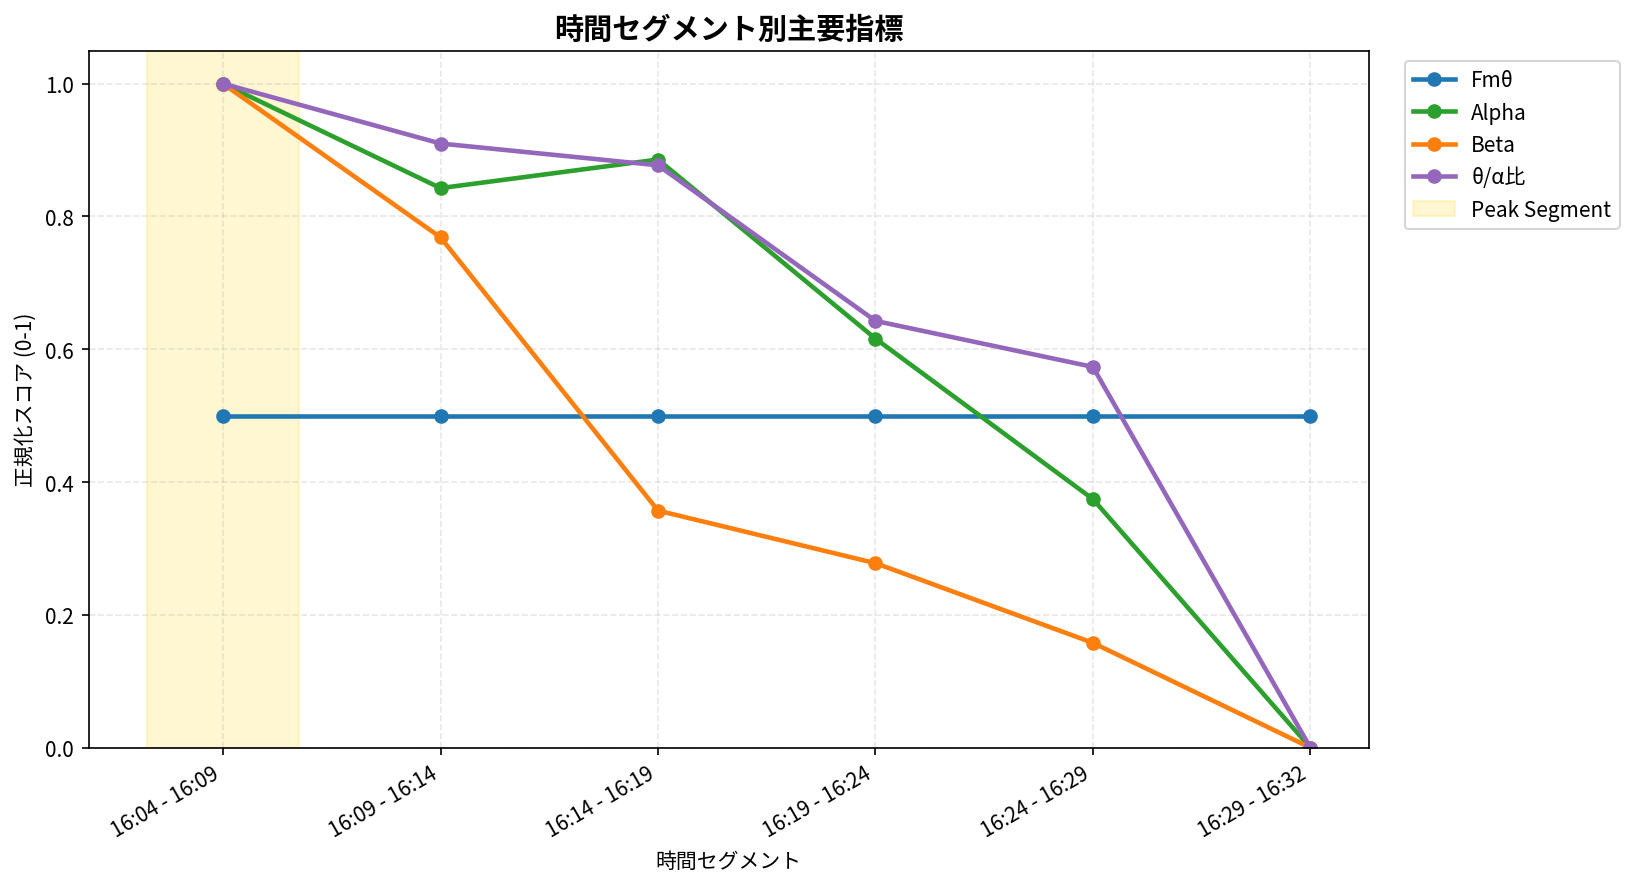
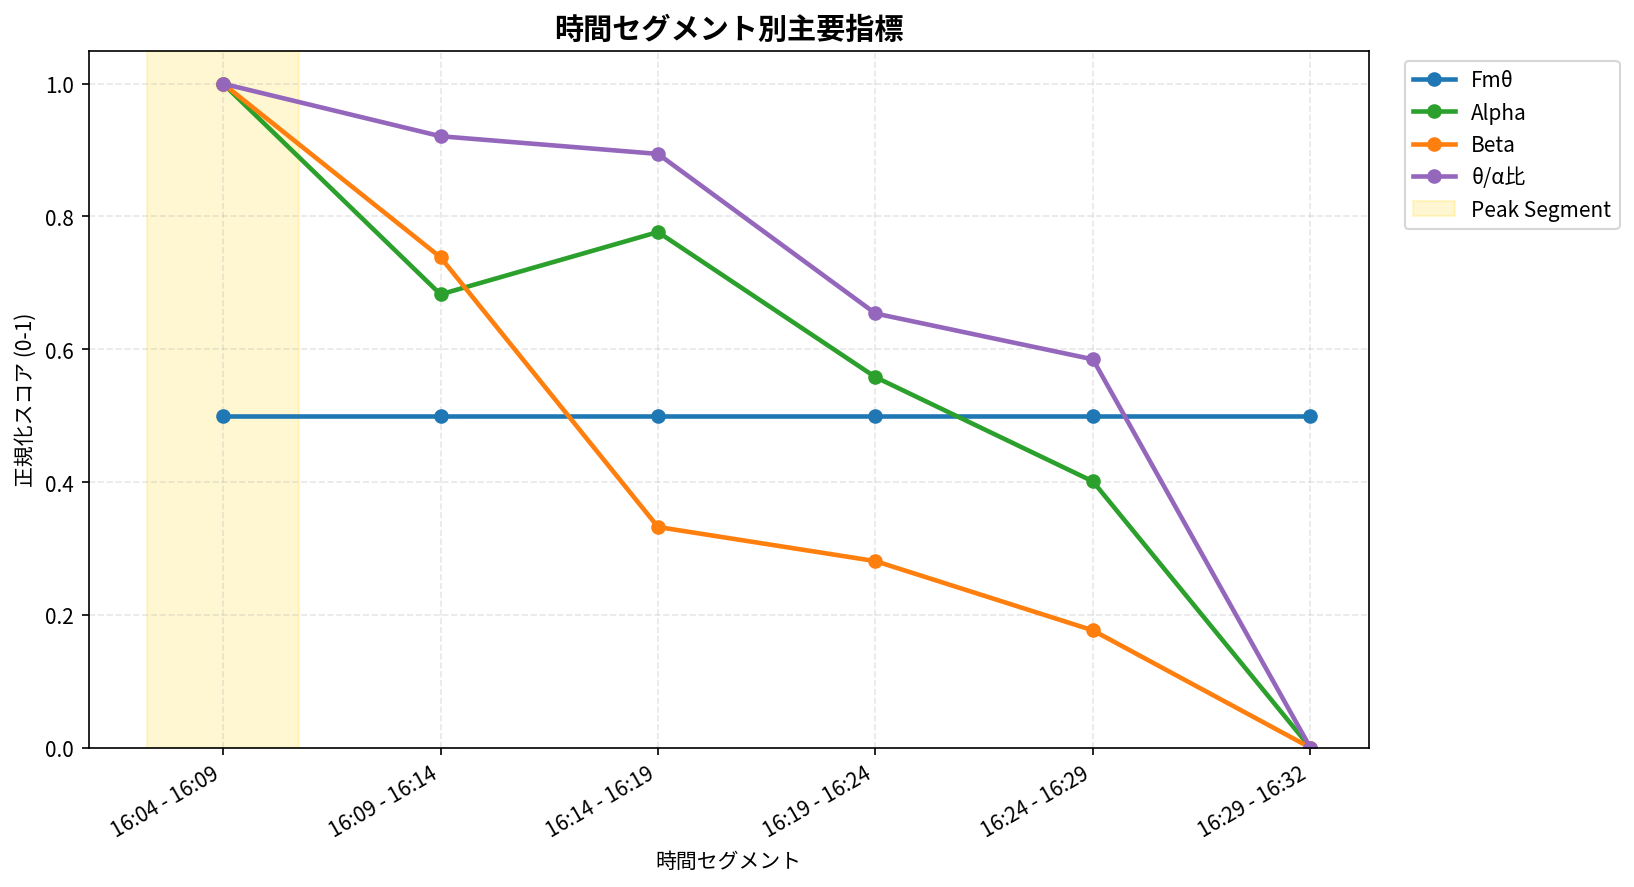
refactor: segment

diff --git a/lib/eeg.py b/lib/eeg.py
@@ -52,68 +52,64 @@ def _min_max_normalize(series: pd.Series) -> pd.Series:
 
 
 def calculate_segment_analysis(
-    df: pd.DataFrame,
+    df_clean: pd.DataFrame,
+    fmtheta_series: pd.Series,
     segment_minutes: int = 5,
-    fmtheta_result: Optional[FrontalThetaResult] = None,
-    raw: Optional['mne.io.BaseRaw'] = None,
+    band_means: Optional[Dict[str, pd.Series]] = None,
 ) -> SegmentAnalysisResult:
     """
     セッションを一定時間のセグメントに分割し、主要指標を算出する。
 
     Parameters
     ----------
-    df : pd.DataFrame
-        Mind Monitor形式のデータフレーム。
+    df_clean : pd.DataFrame
+        前処理済みMind Monitor形式のデータフレーム。
+    fmtheta_series : pd.Series
+        Fmθの時系列データ（indexはタイムスタンプ）。
     segment_minutes : int, default 5
         セグメント長（分単位）。
-    fmtheta_result : FrontalThetaResult, optional
-        既計算のFmθ結果。未指定の場合は内部で算出する。
-    raw : mne.io.BaseRaw, optional
-        Fmθ算出用に再利用するRAWオブジェクト。
+    band_means : dict of pd.Series, optional
+        事前計算されたバンド平均値の辞書 {'Alpha': series, 'Beta': series, 'Theta': series}。
+        未指定の場合は内部で計算する。
 
     Returns
     -------
     SegmentAnalysisResult
         集計表・正規化値・メタデータを含む時間セグメント分析結果。
     """
-    if 'TimeStamp' not in df.columns:
+    if 'TimeStamp' not in df_clean.columns:
         raise ValueError('TimeStamp列が存在しません。')
     if segment_minutes <= 0:
         raise ValueError('segment_minutesは正の整数で指定してください。')
 
-    df_base = df.copy()
-    df_base['TimeStamp'] = pd.to_datetime(df_base['TimeStamp'], errors='coerce')
-    df_base = df_base.dropna(subset=['TimeStamp']).sort_values('TimeStamp')
-    if df_base.empty:
-        raise ValueError('有効なTimeStampを持つデータがありません。')
-
-    df_clean, _ = filter_signal_quality(df_base, require_headband=True, require_all_good=True)
+    df_clean = df_clean.copy()
     df_clean['TimeStamp'] = pd.to_datetime(df_clean['TimeStamp'], errors='coerce')
     df_clean = df_clean.dropna(subset=['TimeStamp']).sort_values('TimeStamp')
     if df_clean.empty:
-        raise ValueError('品質条件を満たすデータがありません。')
+        raise ValueError('有効なTimeStampを持つデータがありません。')
 
-    session_start = df_base['TimeStamp'].iloc[0]
-    session_end = df_base['TimeStamp'].iloc[-1]
+    session_start = df_clean['TimeStamp'].iloc[0]
+    session_end = df_clean['TimeStamp'].iloc[-1]
     freq_str = f'{int(segment_minutes)}T'
     segment_delta = pd.Timedelta(minutes=segment_minutes)
 
-    # Fmθ時系列は既存結果を再利用
-    if fmtheta_result is None:
-        fmtheta_result = calculate_frontal_theta(df_clean, raw=raw)
-    fmtheta_series = fmtheta_result.time_series.sort_index()
+    # Fmθ時系列
+    fmtheta_series = fmtheta_series.sort_index()
 
-    # バンド別の平均値をあらかじめ計算
-    band_series: Dict[str, pd.Series] = {}
-    for band in ('Alpha', 'Beta', 'Theta'):
-        cols = [c for c in df_base.columns if c.startswith(f'{band}_')]
-        if not cols:
-            band_series[band] = pd.Series(dtype=float)
-            continue
-        numeric = df_base[cols].apply(pd.to_numeric, errors='coerce')
-        band_mean = numeric.mean(axis=1)
-        band_mean.index = df_base['TimeStamp']
-        band_series[band] = band_mean.sort_index()
+    # バンド別の平均値（外部から渡されない場合は内部で計算）
+    if band_means is None:
+        band_series: Dict[str, pd.Series] = {}
+        for band in ('Alpha', 'Beta', 'Theta'):
+            cols = [c for c in df_clean.columns if c.startswith(f'{band}_')]
+            if not cols:
+                band_series[band] = pd.Series(dtype=float)
+                continue
+            numeric = df_clean[cols].apply(pd.to_numeric, errors='coerce')
+            band_mean = numeric.mean(axis=1)
+            band_mean.index = df_clean['TimeStamp']
+            band_series[band] = band_mean.sort_index()
+    else:
+        band_series = band_means
 
     # セグメント境界の生成
     segment_starts = []
@@ -129,10 +125,7 @@ def calculate_segment_analysis(
 
     for idx, start in enumerate(segment_starts, start=1):
         end = min(start + segment_delta, session_end)
-        base_mask = (df_base['TimeStamp'] >= start) & (df_base['TimeStamp'] < end)
         clean_mask = (df_clean['TimeStamp'] >= start) & (df_clean['TimeStamp'] < end)
-
-        base_slice_exists = base_mask.any()
         clean_slice_exists = clean_mask.any()
 
         fm_slice = fmtheta_series.loc[(fmtheta_series.index >= start) & (fmtheta_series.index < end)]
@@ -152,24 +145,13 @@ def calculate_segment_analysis(
         if pd.notna(alpha_mean) and alpha_mean != 0:
             theta_alpha_ratio = theta_mean / alpha_mean
 
-        base_count = int(base_mask.sum())
         clean_count = int(clean_mask.sum())
-        segment_quality_ratio = (clean_count / base_count) if base_count > 0 else np.nan
 
         comment_parts = []
-        if not base_slice_exists:
-            comment_parts.append('計測データ不足')
-        elif not clean_slice_exists:
-            comment_parts.append('品質条件未達 (HSI/HeadBand)')
+        if not clean_slice_exists:
+            comment_parts.append('データ不足')
         if fm_slice.dropna().empty:
             comment_parts.append('Fmθデータ不足')
-        if (
-            segment_quality_ratio is not None
-            and not np.isnan(segment_quality_ratio)
-            and segment_quality_ratio > 0.0
-            and segment_quality_ratio < 0.6
-        ):
-            comment_parts.append(f'品質カバレッジ {segment_quality_ratio * 100:.0f}%')
         comments.append(' / '.join(comment_parts) if comment_parts else '')
 
         records.append({
@@ -181,7 +163,6 @@ def calculate_segment_analysis(
             'beta_mean': beta_mean,
             'theta_mean': theta_mean,
             'theta_alpha_ratio': theta_alpha_ratio,
-            'quality_ratio': segment_quality_ratio,
         })
 
     segment_frame = pd.DataFrame(records)
@@ -214,7 +195,6 @@ def calculate_segment_analysis(
     # 表形式（日本語ラベル）
     display_rows = []
     for (idx, row), comment in zip(segment_frame.iterrows(), comments):
-        quality_pct = row['quality_ratio'] * 100 if pd.notna(row['quality_ratio']) else np.nan
         display_rows.append({
             'セグメント': f"セグメント{int(row['segment_index'])}",
             '時間帯': row['label'],
@@ -222,14 +202,11 @@ def calculate_segment_analysis(
             'Alpha平均 (μV²)': row['alpha_mean'],
             'Beta平均 (μV²)': row['beta_mean'],
             'θ/α比': row['theta_alpha_ratio'],
-            '品質カバレッジ (%)': quality_pct,
             '備考': comment,
             'ピーク': '★' if (peak_idx is not None and int(row['segment_index']) == peak_idx) else '',
         })
 
     table = pd.DataFrame(display_rows)
-
-    overall_quality_ratio = float(len(df_clean) / len(df_base)) if len(df_base) else None
 
     metadata = {
         'segment_minutes': segment_minutes,
@@ -242,8 +219,6 @@ def calculate_segment_analysis(
             else None
         ),
         'peak_score': float(peak_score.loc[peak_idx]) if peak_idx is not None else None,
-        'fmtheta_band': fmtheta_result.metadata.get('band') if fmtheta_result else None,
-        'quality_data_ratio': overall_quality_ratio,
     }
 
     segments = segment_frame.set_index('segment_index')

diff --git a/issues/003_improve_daily_report/generate_report.py b/issues/003_improve_daily_report/generate_report.py
@@ -479,10 +479,9 @@ def run_full_analysis(data_path, output_dir):
     try:
         print('計算中: 時間セグメント分析...')
         segment_result = calculate_segment_analysis(
-            df,
+            df_quality,
+            fmtheta_result.time_series,
             segment_minutes=5,
-            fmtheta_result=fmtheta_result,
-            raw=raw if mne_dict else None,
         )
         print('プロット中: 時間セグメント比較...')
         segment_plot_name = 'time_segment_metrics.png'

diff --git a/issues/003_improve_daily_report/REPORT.md b/issues/003_improve_daily_report/REPORT.md
@@ -1,6 +1,6 @@
 # Muse脳波データ分析レポート
 
-- **生成日時**: 2025-10-31 20:59:17
+- **生成日時**: 2025-10-31 21:14:26
 - **データファイル**: `mindMonitor_2025-10-31--16-04-01_7679417574001279836.csv`
 - **記録時間**: 2025-10-31 16:04:02 ~ 2025-10-31 16:32:24
 - **計測時間**: 28.4 分
@@ -106,12 +106,12 @@
 
 ### 詳細データ
 
-| セグメント   | 時間帯        |   Fmθ平均 (μV²) |   Alpha平均 (μV²) |   Beta平均 (μV²) |   θ/α比 |   品質カバレッジ (%) | 備考          | ピーク   |
-|:-------------|:--------------|----------------:|------------------:|-----------------:|--------:|---------------------:|:--------------|:---------|
-| セグメント1  | 16:04 - 16:09 |          18.928 |             0.918 |            0.279 |   0.102 |               96.974 |               | ★        |
-| セグメント2  | 16:09 - 16:14 |         nan     |             0.856 |            0.221 |   0.072 |               97.245 | Fmθデータ不足 |          |
-| セグメント3  | 16:14 - 16:19 |         nan     |             0.873 |            0.120 |   0.061 |               98.989 | Fmθデータ不足 |          |
-| セグメント4  | 16:19 - 16:24 |         nan     |             0.767 |            0.100 |  -0.018 |               91.967 | Fmθデータ不足 |          |
-| セグメント5  | 16:24 - 16:29 |         nan     |             0.672 |            0.070 |  -0.042 |               83.980 | Fmθデータ不足 |          |
-| セグメント6  | 16:29 - 16:32 |         nan     |             0.525 |            0.031 |  -0.235 |               73.956 | Fmθデータ不足 |          |
+| セグメント   | 時間帯        |   Fmθ平均 (μV²) |   Alpha平均 (μV²) |   Beta平均 (μV²) |   θ/α比 | 備考          | ピーク   |
+|:-------------|:--------------|----------------:|------------------:|-----------------:|--------:|:--------------|:---------|
+| セグメント1  | 16:04 - 16:09 |          18.928 |             0.931 |            0.279 |   0.095 |               | ★        |
+| セグメント2  | 16:09 - 16:14 |         nan     |             0.858 |            0.217 |   0.070 | Fmθデータ不足 |          |
+| セグメント3  | 16:14 - 16:19 |         nan     |             0.880 |            0.121 |   0.061 | Fmθデータ不足 |          |
+| セグメント4  | 16:19 - 16:24 |         nan     |             0.830 |            0.108 |  -0.018 | Fmθデータ不足 |          |
+| セグメント5  | 16:24 - 16:29 |         nan     |             0.794 |            0.084 |  -0.041 | Fmθデータ不足 |          |
+| セグメント6  | 16:29 - 16:32 |         nan     |             0.703 |            0.042 |  -0.233 | Fmθデータ不足 |          |
 
